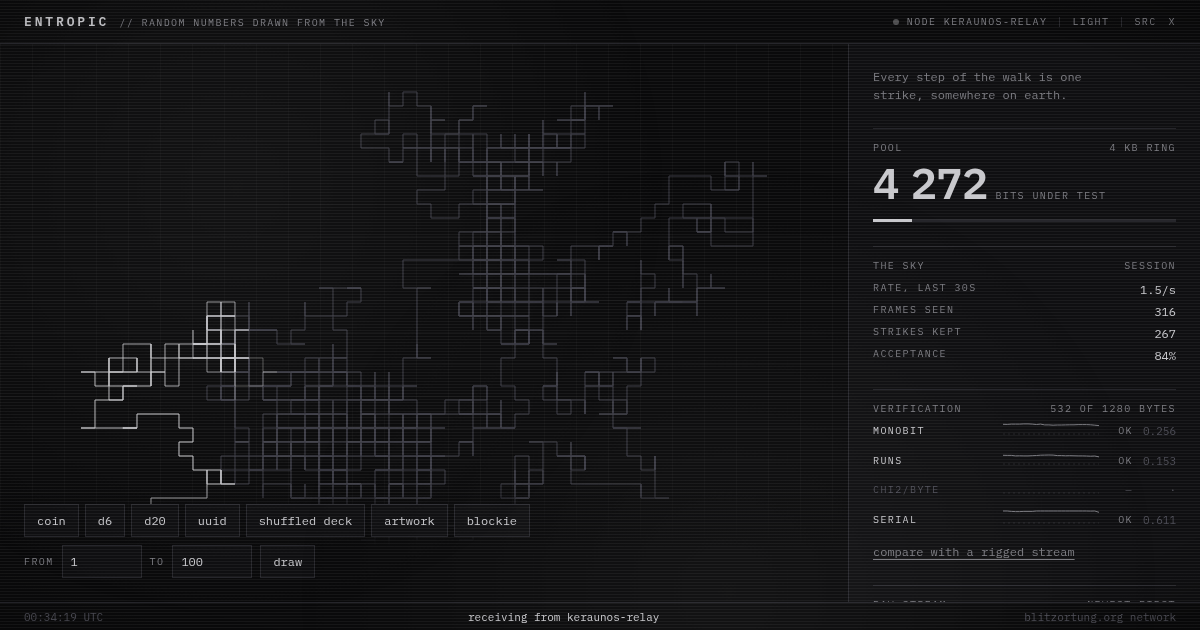
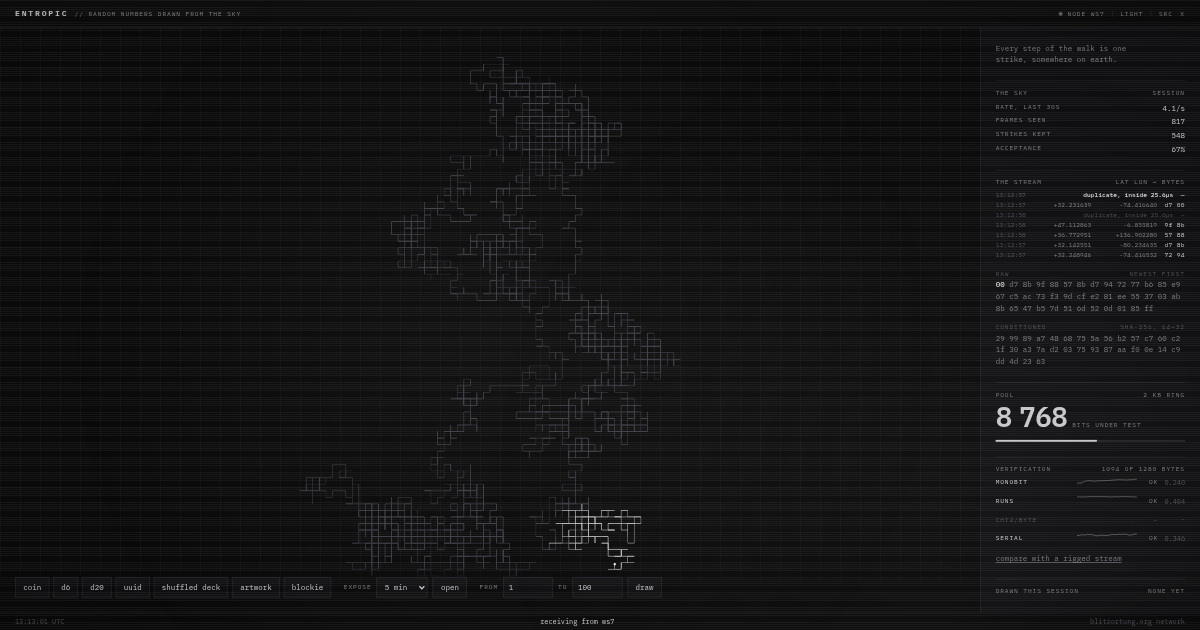
feat(shots): render the card at 1.6x so the badges are in it
At 1:1 the panel is taller than the 1200x630 the card is fixed at, so the
verification badges fell off the bottom. Renders larger and scales back to the
declared size; --zoom 1 restores the old framing. Recaptures og.png, and adds
the MIT LICENSE the README now points at.

diff --git a/README.md b/README.md
@@ -87,14 +87,14 @@ fooled, and the fourth column is the whole reason there are four.
 | **monobit** | Are there as many ones as zeros | one symbol leads | `0101…`, perfectly balanced and perfectly predictable |
 | **runs** | Are the streaks the right length | too many transitions, or too few | structure that only shows at the byte level |
 | **chi² per byte** | Is the byte distribution flat | lumpy, *or too flat* | correlation with flat marginals |
-| **serial** | Is there correlation at lag 1 to 8 | any lag repeats | — |
+| **serial** | Is there correlation at lag 1 to 8 | any lag repeats | none |
 
 **monobit** counts the ones and measures how far off half that is, in standard
 deviations: `s = |2·ones − n| / √n`, then `p = erfc(s/√2)`.
 
 **runs** counts maximal streaks of identical bits against the `2n·π(1−π)`
 expected of independent ones. This is what kills the alternating stream monobit
-waves through — it has the most runs a sequence can have. It carries a
+waves through: it has the most runs a sequence can have. It carries a
 precondition: if monobit is already badly off, the runs statistic is not
 meaningful, so it returns p=0 rather than a number that looks like a reading.
 
@@ -102,7 +102,7 @@ meaningful, so it returns p=0 rather than a number that looks like a reading.
 to the `n/256` expected, `X2 = Σ (observed − expected)² / expected` on df=255,
 with p from the Wilson–Hilferty approximation. It needs 1,280 bytes so that
 every bin expects at least five; below that it reports no reading rather than an
-invalid one. A real stream scatters around X2≈255 — the lightning scores 286,
+invalid one. A real stream scatters around X2≈255. The lightning scores 286,
 the seeded-PRNG control 265.
 
 **serial** counts, for each lag 1 to 8, how often bit *i* equals bit *i+k*.
@@ -132,7 +132,7 @@ that kind absorbs *independent* failures, and consecutive evaluations here are
 not independent: the pool is a ring the sky fills slowly, so at a couple of
 strikes a second an evaluation two seconds after the last one is grading almost
 exactly the same bytes. Three in a row is barely more evidence than one. A badge
-does not go red on a bad moment and recover — it goes red on a bad *window*, and
+does not go red on a bad moment and recover; it goes red on a bad *window*, and
 stays red until the ring has turned that window over.
 
 Which is why the ring is 2KB rather than the 4KB the plan suggested off the cuff.
@@ -153,7 +153,7 @@ only colour on the site and a reading that exists only in a hue is a reading
 some people never get.
 
 The trace does not plot p. Drawn against a linear 0..1 axis the threshold sits at
-0.01 — the bottom one percent of the box, a tenth of a pixel at this height — so
+0.01, the bottom one percent of the box, a tenth of a pixel at this height, so
 the one line that decides the verdict was invisible and the trace was a wiggle
 with no reading on it. It plots **headroom** instead: `log10(margin / alpha)`,
 how many decades of room the test has before it fails. Zero is exactly on the
@@ -169,7 +169,7 @@ the whole argument, drawn.
 The axis clamps to two decades above the rule and one below, so a single
 catastrophic evaluation cannot flatten every other point in the window against
 an edge. A test still waiting for its minimum sample has no p-value at all, and
-that absence leaves a gap in the trace — it used to be plotted as zero, the
+that absence leaves a gap in the trace. It used to be plotted as zero, the
 worst score there is, which drew chi² as a flatline along the floor while it was
 merely counting bytes.
 
@@ -201,7 +201,7 @@ its own caption and checked.
 
 The **exposure** is the only one that is a window rather than an allocation.
 Every other draw asks how many bytes it needs and stops, so the wait is a side
-effect; this one takes a duration — one, five or fifteen minutes — and the plate
+effect; this one takes a duration (one, five or fifteen minutes) and the plate
 is whatever fell into it. That makes the time the subject rather than a cost:
 two exposures of the same length differ because the weather did, and a quiet
 night and a storm come out as visibly different pictures rather than the same
@@ -247,7 +247,7 @@ Three readouts exist so the page's claims can be checked rather than believed.
 taken off it. `round(|degrees| × 1e6) & 0xff`, one row per frame, so the claim
 that the low byte of a position is solver noise can be confirmed against the raw
 stream above it with a calculator. Rejected frames stay in the list rather than
-disappearing from it — a filter that discards a quarter of what arrives is
+disappearing from it. A filter that discards a quarter of what arrives is
 easier to believe when the discarding is visible, and the acceptance figure a
 few lines up is otherwise just a number.
 
@@ -289,7 +289,7 @@ Then open the page with a feed on the address:
 http://localhost:8080/?feed=wss://ws1.blitzortung.org:443/&hello=1
 ```
 
-There is nothing to install. No dependencies, no build step, no bundler — the
+There is nothing to install. No dependencies, no build step, no bundler: the
 repository is the site, and `npm run dev` is `python3 -m http.server`. The
 command-line tools want Node 22 or newer, which is the version that gave Node a
 global `WebSocket`; the page itself wants only a browser.
@@ -323,8 +323,8 @@ Three things, and only the first is unusual.
 ### 1. A relay, because Blitzortung ask for one
 
 The page never talks to Blitzortung directly, and neither should yours.
-Blitzortung is a volunteer network — people who bought a receiver and put it on
-their roof — and they ask that a project using their data serve it from its own
+Blitzortung is a volunteer network, people who bought a receiver and put it on
+their roof, and they ask that a project using their data serve it from its own
 server rather than pointing every visitor at theirs. One socket upstream,
 however many readers.
 
@@ -351,7 +351,7 @@ straight at the upstream instead.
 ### 2. Let the relay carry your origin
 
 The relay's `ALLOWED_ORIGINS` is a comma-separated, exact-match list of the
-origins it will serve. Unset, it answers anybody — which is what a local
+origins it will serve. Unset, it answers anybody, which is what a local
 `wrangler dev` wants, and what a public deployment must not be: an open relay in
 front of a volunteer's server hands back the one property the relay exists to
 protect.
@@ -380,7 +380,7 @@ There is no build step, which is the point. Point Cloudflare Pages at the repo:
 
 Any static host works; `_headers` is Pages-specific and the rest is plain files.
 
-**Why no bundler.** Nothing here needs compiling — no JSX, no TypeScript, just
+**Why no bundler.** Nothing here needs compiling: no JSX, no TypeScript, just
 ES modules a browser already runs. Bundling would also cost the one property the
 page is built to have: open devtools on the deployed site and you can read the
 same `tests.js` that is grading the stream, comments intact. Minified into a
@@ -398,12 +398,13 @@ runs last week's tests while this week's badges vouch for them.
 ```sh
 npm run shots                                      # from production
 npm run shots -- --soak 420                        # until chi2 stops waiting
+npm run shots -- --zoom 1                          # 1:1, walk only, no badges
 npm run shots -- --url "http://localhost:8080/?feed=wss://…"
 ```
 
 It has to be regenerable, because what it shows is the weather on the morning it
-was taken. A screenshot pasted in once decays quietly — the palette moves, a
-readout is renamed, a badge gains a column — and the card goes on advertising an
+was taken. A screenshot pasted in once decays quietly. The palette moves, a
+readout is renamed, a badge gains a column, and the card goes on advertising an
 instrument that no longer exists.
 
 The soak is the whole difficulty. A page grabbed on load is an empty grid and a
@@ -411,6 +412,14 @@ fair picture of nothing, so the shot waits: about 20s before the walk has been
 anywhere, 40s before monobit, runs and serial have their 500 bits, and about
 four minutes before chi² has the 1,280 bytes it needs to stop reporting that it
 is still counting.
+
+The card is 1200×630 because that is the shape the people who unfurl it chose,
+and the panel is taller than that. At 1:1 the badges, which are the whole
+argument, fall off the bottom, so it renders at 1.6× and scales back down: the
+same 1200×630 file, holding about a thousand pixels of column instead of six
+hundred. The type ends up
+small, which costs nothing, because a card is drawn a few hundred pixels wide in
+a timeline and nobody was reading p-values off it there.
 
 `tools/shots.mjs` drives Chrome over the DevTools Protocol using the WebSocket
 Node has had since v22, rather than pulling in a browser-automation dependency
@@ -475,8 +484,9 @@ by way of the classic ethereum-blockies construction.
 
 ## Licence
 
-None yet — no `LICENSE` file has been chosen, so default copyright applies and
-nobody has permission to reuse this. If you want to build on it, open an issue.
+[MIT](LICENSE). Do what you like with the code.
 
-Blitzortung's data is theirs and carries its own terms; nothing here grants any
-rights to it.
+The data is a separate question. Strikes come from the Blitzortung network and
+are theirs, under their own terms; nothing here grants any rights to them. If
+you run your own instance, run your own relay and be a good guest of a service
+that volunteers pay for.
